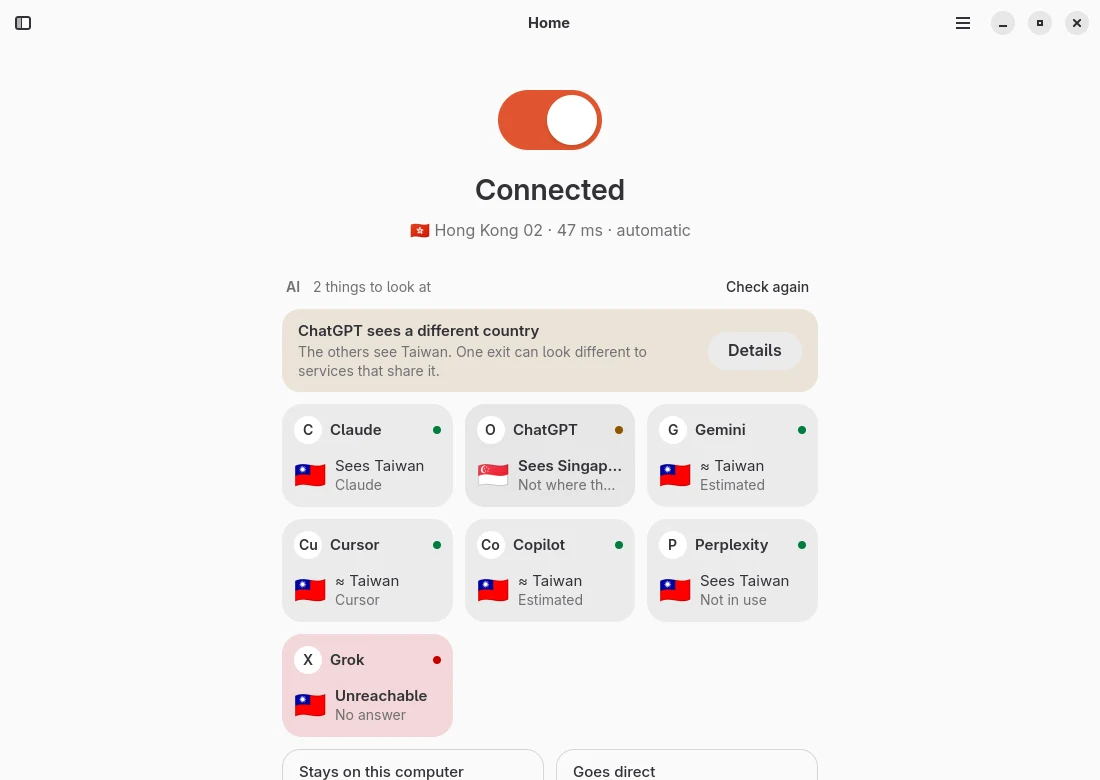
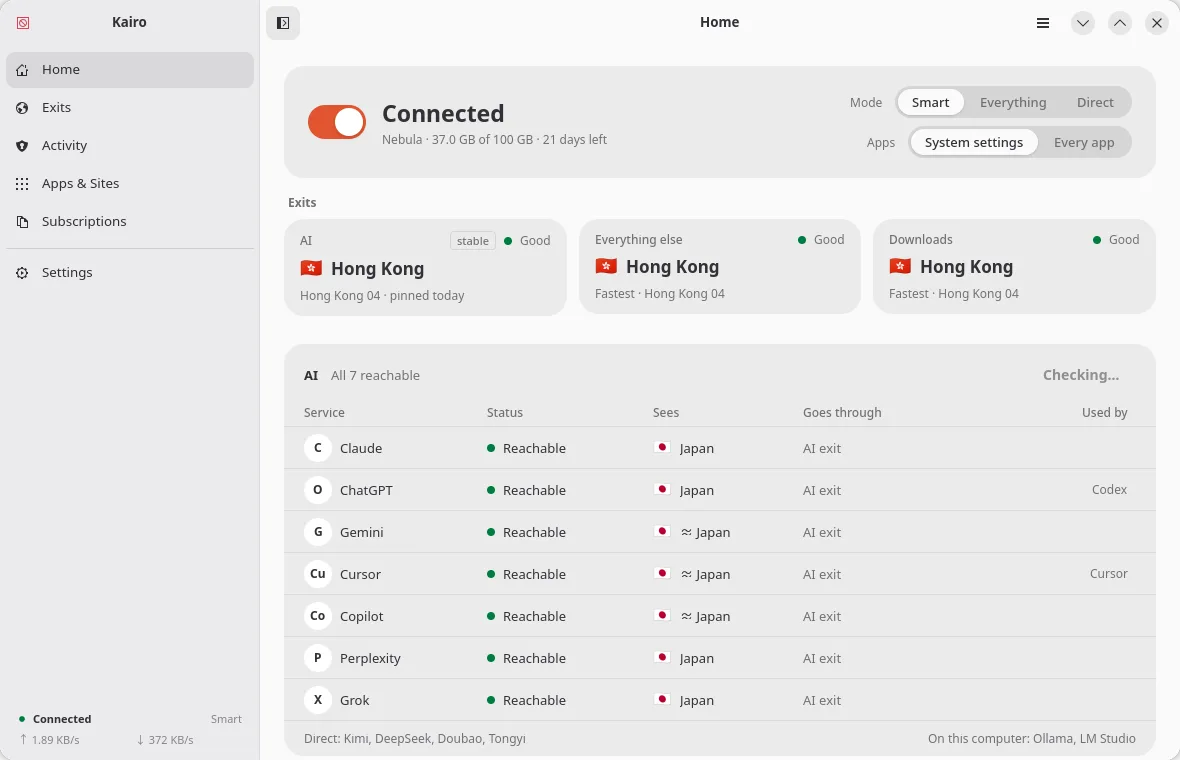
Landing page and README for the five-page window; Grok has something to check (its API and trace)

diff --git a/site/index.html b/site/index.html
@@ -179,10 +179,10 @@ footer .wrap { display: flex; flex-wrap: wrap; gap: 8px 24px; justify-content: s
     </div>
     <figure class="hero-shot">
       <div class="window">
-        <img class="shot-light" src="shots/home-light.webp" width="1100" height="780" alt="Kairo's Home: a tile for each AI service with the country it sees and the tools using it, then the Location, AI exit, Route and Apps &amp; Sites rows.">
-        <img class="shot-dark" src="shots/home-dark.webp" width="1100" height="780" alt="Kairo's Home in dark mode." loading="lazy">
+        <img class="shot-light" src="shots/home-light.webp" width="1180" height="760" alt="Kairo's Home: the connect switch with mode and apps, three exits (AI, Everything else, Downloads) with a country and how each is doing, and a row for each AI service with what Kairo measured.">
+        <img class="shot-dark" src="shots/home-dark.webp" width="1180" height="760" alt="Kairo's Home in dark mode." loading="lazy">
       </div>
-      <figcaption><b>Home</b> <span style="color:var(--muted)">· one tile per AI service: what Kairo measured, nothing more</span></figcaption>
+      <figcaption><b>Home</b> <span style="color:var(--muted)">· three exits, and one row per AI service: what Kairo measured, nothing more</span></figcaption>
     </figure>
   </div>
 
@@ -190,39 +190,39 @@ footer .wrap { display: flex; flex-wrap: wrap; gap: 8px 24px; justify-content: s
     <div class="gallery">
       <figure>
         <div class="window">
-          <img class="shot-light" src="shots/activity-light.webp" width="1100" height="330" alt="Activity: Claude, Codex and Cursor on the left, the AI exit in the middle, ChatGPT, Claude and Cursor on the right, joined by lines as thick as the traffic." loading="lazy">
-          <img class="shot-dark" src="shots/activity-dark.webp" width="1100" height="330" alt="Activity in dark mode." loading="lazy">
+          <img class="shot-light" src="shots/exits-light.webp" width="1180" height="760" alt="Exits: the three exits, and for the selected one Fastest and the countries with their best servers and how they are doing." loading="lazy">
+          <img class="shot-dark" src="shots/exits-dark.webp" width="1180" height="760" alt="Exits in dark mode." loading="lazy">
         </div>
-        <figcaption><b>Activity</b> <span>· which tool talks to which service, and the way it goes</span></figcaption>
+        <figcaption><b>Exits</b> <span>· AI, everything else and downloads each get a country; the AI exit stays when the others change</span></figcaption>
       </figure>
       <figure>
         <div class="window">
-          <img class="shot-light" src="shots/detail-light.webp" width="1100" height="1040" alt="The Claude tile opened: reachable, the API answers in 498 ms, the country it sees, and a connection held open for 90 seconds." loading="lazy">
-          <img class="shot-dark" src="shots/detail-dark.webp" width="1100" height="1040" alt="The service detail in dark mode." loading="lazy">
+          <img class="shot-light" src="shots/activity-light.webp" width="1180" height="760" alt="Activity: each app with the AI services and sites it talks to, the exit it goes through, and its total." loading="lazy">
+          <img class="shot-dark" src="shots/activity-dark.webp" width="1180" height="760" alt="Activity in dark mode." loading="lazy">
         </div>
-        <figcaption><b>What was measured</b> <span>· reachable, API, country, a connection held open</span></figcaption>
+        <figcaption><b>Activity</b> <span>· by app: what it talks to, where it goes through, and Always Direct, AI Exit or Block</span></figcaption>
       </figure>
       <figure>
         <div class="window">
-          <img class="shot-light" src="shots/location-light.webp" width="1180" height="760" alt="The Location popover: search, Fastest, and places grouped by region with their delays." loading="lazy">
-          <img class="shot-dark" src="shots/location-dark.webp" width="1180" height="760" alt="Locations in dark mode." loading="lazy">
+          <img class="shot-light" src="shots/profiles-light.webp" width="1180" height="760" alt="Subscriptions: a subscription with its usage, expiry and last update." loading="lazy">
+          <img class="shot-dark" src="shots/profiles-dark.webp" width="1180" height="760" alt="Subscriptions in dark mode." loading="lazy">
         </div>
-        <figcaption><b>Locations</b> <span>· the AI exit has its own row and stays when this changes</span></figcaption>
+        <figcaption><b>Subscriptions</b> <span>· usage and expiry, and a provider's errors in plain words</span></figcaption>
       </figure>
       <figure>
         <div class="window">
-          <img class="shot-light" src="shots/groups-light.webp" width="1180" height="760" alt="Groups: the subscription's groups, and the selected group's members with their delays." loading="lazy">
-          <img class="shot-dark" src="shots/groups-dark.webp" width="1180" height="760" alt="Groups in dark mode." loading="lazy">
+          <img class="shot-light" src="shots/settings-light.webp" width="1180" height="760" alt="Settings: appearance, launch at login, how apps follow Kairo, and the AI switches." loading="lazy">
+          <img class="shot-dark" src="shots/settings-dark.webp" width="1180" height="760" alt="Settings in dark mode." loading="lazy">
         </div>
-        <figcaption><b>Advanced</b> <span>· every group, rule, connection and log, as mihomo has them</span></figcaption>
+        <figcaption><b>Settings</b> <span>· a short list; groups, rules, logs and DNS are one click away under Advanced</span></figcaption>
       </figure>
     </div>
 
     <div class="facts">
-      <div><b>One exit, pinned</b><span>AI tools stay on it when the Location changes. Open connections are never cut.</span></div>
+      <div><b>One exit, pinned</b><span>AI tools stay on it when everything else changes. Open connections are never cut.</span></div>
       <div><b>Measured, not promised</b><span>Reachable, API answer, the country a service sees, a connection held for 90 seconds.</span></div>
       <div><b>Direct where it should be</b><span>Domestic AI goes straight out. Local models never leave your computer.</span></div>
-      <div><b>mihomo built in</b><span>The official core ships inside and updates with the app.</span></div>
+      <div><b>Updates itself</b><span>When a new version is out, a Download button appears in the sidebar. mihomo ships inside and updates with the app.</span></div>
     </div>
     <p class="note">Kairo shows what a service sees. Where you are, and the service's own terms, still apply.</p>
   </section>

diff --git a/crates/kairo-core/src/ai.rs b/crates/kairo-core/src/ai.rs
@@ -129,8 +129,8 @@ pub const SERVICES: &[AiService] = &[
         name: "Grok",
         mono: "X",
         suffixes: &["grok.com", "x.ai"],
-        api: None,
-        trace_host: None,
+        api: Some(("api.x.ai", "/v1/models", &[401])),
+        trace_host: Some("grok.com"),
         tools: &["grok"],
     },
 ];

diff --git a/README.md b/README.md
@@ -8,50 +8,53 @@ Mac, GTK 4 and libadwaita on Linux, written in Rust on [NSH](https://nsh.dev).
 
 ## What it does
 
-- **AI work**: Claude, ChatGPT, Gemini, Cursor, Copilot, Perplexity and Grok go through one **AI exit**. It
-  is pinned to a server (the same server, even if the provider renames it), and it stays there when the
-  Location changes by itself. Kimi, DeepSeek, Doubao, Tongyi and the other domestic AI go direct, and local
-  models (Ollama, LM Studio, your LAN) are never proxied. Hugging Face, PyPI, Ollama, Docker and GitHub
-  downloads follow the Location. Home shows a tile per service with what Kairo measured: whether it is
-  reachable, whether its API answers (without a key), the country it sees (from Cloudflare's trace when the
-  service sits behind it, otherwise a marked estimate), and whether a connection stays open for 90 seconds.
-  The checks run when you connect and every ten minutes. If the pinned server leaves your subscription,
-  Kairo says so and AI follows the Location until you pick another. **Activity** draws which tools talk to
-  which services, as lines as thick as the traffic. Kairo shows what a service sees; where you are and the
-  service's own terms still apply. Settings → AI turns each part off.
-- **Core**: the official mihomo build is inside every package, pinned and checked against its published
-  SHA-256 when the package is built. It starts with Kairo (all traffic goes direct until you add a profile)
-  and comes back if it crashes. A custom core binary also works.
-- **Updates**: Kairo checks for a new release on launch and every six hours, downloads it in the
-  background and verifies it (an Ed25519-signed manifest, plus `SHA256SUMS`). **Restart to Update** installs
-  it, core included: the app bundle on macOS, the files of a `~/.local` install, or the `.deb` through
-  `pkexec apt-get` (one password prompt).
-- **Subscriptions**: add a subscription URL or a YAML file. Kairo validates each one with the core before using it.
-  Subscriptions update on a schedule (the provider's interval or your own) or by hand. You can see usage and
-  expiry, switch profiles with one click, and keep per-profile overrides in a YAML editor. Overrides merge
-  into the profile, `prepend-rules` and friends are supported, and the core checks the result before Kairo
-  applies it.
-- **Locations**: Home picks the fastest place on its own (it skips the provider's info entries), or you pick one, grouped by region and sorted by delay. **Apps & Sites** holds the subscription's per-app groups.
-- **Groups** (under Advanced): see groups in config order, pick a node, and run delay tests for one node or a whole group.
-  Nodes can be sorted by delay or name and filtered. Proxy providers support update and health check.
-- **Route**: Smart, All Traffic and Direct (mihomo's Rule, Global and Direct). Switch from Home, the menu bar or the tray.
-- **System proxy**: works on macOS (`networksetup`), GNOME (gsettings) and KDE (kioslaverc). The previous
-  settings are put back on quit, on SIGTERM or SIGINT, on a panic, and even after a SIGKILL or crash, thanks to
-  a small guardian process. The next start also recovers any leftover state. Kairo only puts back what it
-  changed: if its System Proxy was never on, another app's proxy settings are left alone.
-- **TUN**: one switch. The core alone gets the one-time privilege it needs: `cap_net_admin` through
-  `pkexec setcap` on Linux, setuid through the administrator prompt on macOS. Kairo itself never runs
-  privileged. See [TUN and privileges](#tun-and-privileges).
-- **Live views**: speeds, totals and memory. The connections table (sortable and searchable, with an
-  inspector and close or close-all) stays smooth with thousands of rows. You also get the rules and rule
-  providers, and the logs (live level, search, pause).
-- **DNS tool**: query the core's resolver for A, AAAA, CNAME, MX, TXT or NS records, and flush the fake-IP cache
-  (⌘K → Go to DNS).
-- **Settings**: appearance, launch at login, start minimized, keep running in the tray, the AI switches, the
-  system proxy and TUN. **Advanced** holds ports, LAN, IPv6, the bypass list, the TUN stack, controller and
-  secret, the delay test and the core.
-- **Tray / menu bar**: status and speeds, mode, system proxy, TUN, node quick switch, start/stop the core,
-  show the window, and quit.
+Five pages in a sidebar: **Home**, **Exits**, **Activity**, **Apps & Sites** and **Subscriptions**, with
+Settings below them.
+
+- **Three exits.** Traffic leaves through one of three places, each with a country, a server and a word for
+  how it is doing (Good, OK, Slow): **AI**, **Everything else** and **Downloads**. The AI exit is pinned to a
+  server (the same server, even if the provider renames it) and stays there when Everything else changes.
+  Everything else is the fastest place by default, or the one you pick. Downloads (Hugging Face, PyPI,
+  Ollama, Docker, GitHub) follow Everything else unless you pick another; a mirror switch, off until a
+  throughput test passes, can shorten them. Pick a country, then a server, in **Exits**.
+- **AI work.** Claude, ChatGPT, Gemini, Cursor, Copilot, Perplexity and Grok go through the AI exit. Kimi,
+  DeepSeek, Doubao, Tongyi and the other domestic AI go direct, and local models (Ollama, LM Studio, your
+  LAN) are never proxied. Home shows a row per service with what Kairo measured: whether it is reachable,
+  whether its API answers (without a key), the country it sees (from Cloudflare's trace when the service sits
+  behind it, otherwise a marked estimate), and whether a connection stays open for 90 seconds. The checks run
+  when you connect and every ten minutes. When something is wrong, Home says so with one button: **Use AI
+  Exit** or **Use Every App**. Kairo shows what a service sees; where you are and the service's own terms
+  still apply. Settings → AI turns each part off.
+- **Activity.** By app: what each one talks to (AI services first, then sites), where it goes through, and how
+  much. A row's menu sets **Always Direct**, **Always AI Exit** or **Block** for that app, or shows its raw
+  connections (with close). When an AI tool such as Claude Code goes around Kairo (it ignores the system
+  proxy), a banner says so, with **Use Every App** (TUN) and **Copy for terminal** (an `export` line, with
+  `NO_PROXY`). It reads the socket table of the current user only; no root.
+- **Apps & Sites.** One list of choices: an app or a site goes through the AI exit, another country, direct,
+  or is blocked. Everything not listed uses its usual exit.
+- **Subscriptions.** Add a link or a YAML file; Kairo checks each one with the core before using it. Usage
+  and expiry show on the row, and when a provider answers with an error or a notice, Kairo says it in plain
+  words with a Retry. Updates run on a schedule (the provider's interval or your own) or by hand.
+- **Updates.** Kairo checks for a new release at launch and every six hours. When there is one, the sidebar's
+  foot shows **Download**; it downloads and verifies the release (an Ed25519-signed manifest, plus
+  `SHA256SUMS`), then offers **Restart**. The app bundle on macOS, the files of a `~/.local` install, or the
+  `.deb` through `pkexec apt-get` (one password prompt) are replaced, core included.
+- **Core.** The official mihomo build is inside every package, pinned and checked against its published
+  SHA-256 when the package is built. It starts with Kairo (all traffic goes direct until you add a
+  subscription) and comes back if it crashes. A custom core binary also works.
+- **System proxy and TUN.** Apps follow the system settings (macOS `networksetup`, GNOME gsettings, KDE
+  kioslaverc), or **Every app** takes everything in through TUN. The previous settings are put back on quit,
+  on SIGTERM or SIGINT, on a panic, and even after a SIGKILL or crash, thanks to a small guardian process.
+  The core alone gets the one-time privilege TUN needs (`cap_net_admin` through `pkexec setcap` on Linux,
+  setuid through the administrator prompt on macOS). Kairo itself never runs privileged. See
+  [TUN and privileges](#tun-and-privileges).
+- **Settings.** General: appearance, launch at login, start minimized, keep running in the tray, how apps
+  follow, AI. **Advanced**: the port, other devices on the network, IPv6, the bypass list, the controller and
+  secret, the core, the delay test, and **Inspect**: the subscription's groups, the running rules
+  (read-only), Diagnostics (the core's log and a report to copy) and DNS (ask the core's resolver; flush
+  the fake-IP cache).
+- **Menu bar / tray.** Status and speeds, mode, the AI line, Everything else and AI exit by country, start or
+  stop, open a page, and quit. ⌘K finds pages, actions and places.
 
 ## Install
 
@@ -107,15 +110,15 @@ On first run Kairo takes ports 7897 and 9097, or the next free ones if another c
 - `tun_in_a_network_namespace` turns TUN on and off for real, under `unshare -rn`. That gives a user and
   network namespace with uid 0 inside, so no root is needed and the host's network is not touched.
 - `tests/app.test.tsx` runs headless under `nsh test` with the real core and `scripts/fixture.py`. It covers
-  the first run, adding a subscription, proxies and delay tests, modes, rules, logs, DNS, settings
-  (Apply/Revert) and dark mode.
+  the first run, adding a subscription, the exits, modes, the double press on the connect switch, apps &
+  sites, groups, rules, logs, DNS, settings (Apply/Revert) and dark mode.
 
 ## Architecture
 
 ```
 src/main.rs          the launcher: window, tray, single instance, signals, guardian process
 src/lib.rs           the NSH root component (App) and the sidebar shell
-src/pages/*.rs       Home, Apps & Sites, Groups, Subscriptions, Connections, Rules, Logs, DNS, Settings
+src/pages/*.rs       Home, Exits, Activity, Apps & Sites, Subscriptions, Settings (and its Inspect views)
 src/ui/              the small design system: tokens, rows, groups, segmented controls, icons
 crates/kairo-core    everything that is not UI:
   service.rs           the state (a tokio watch channel the UI subscribes to) and every action
